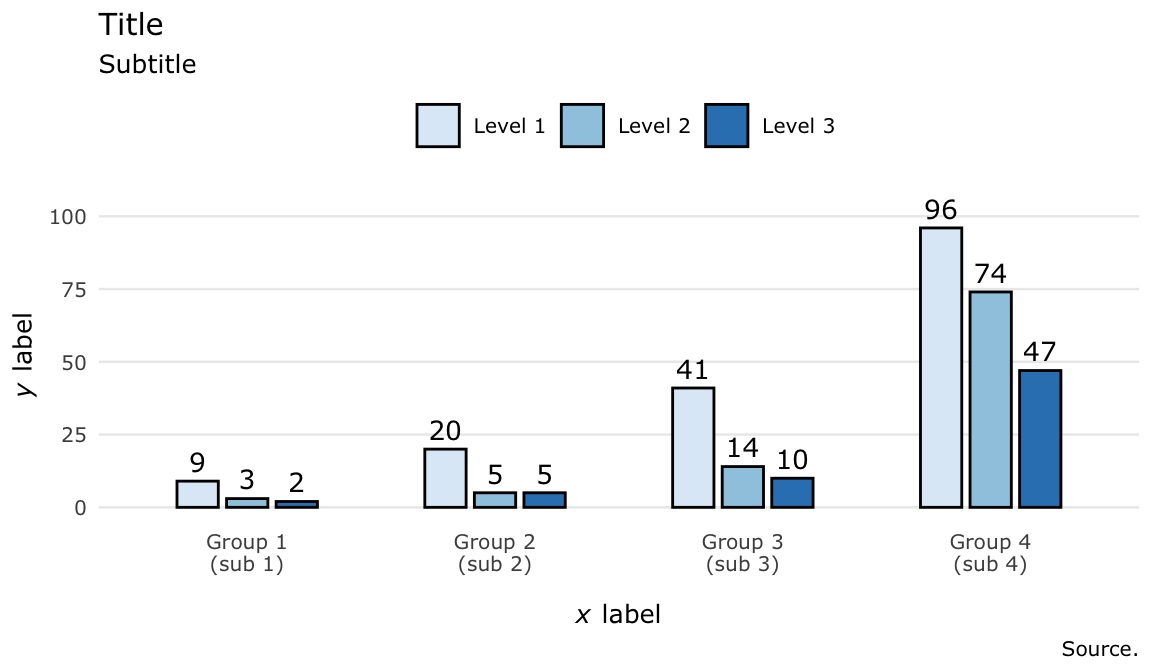
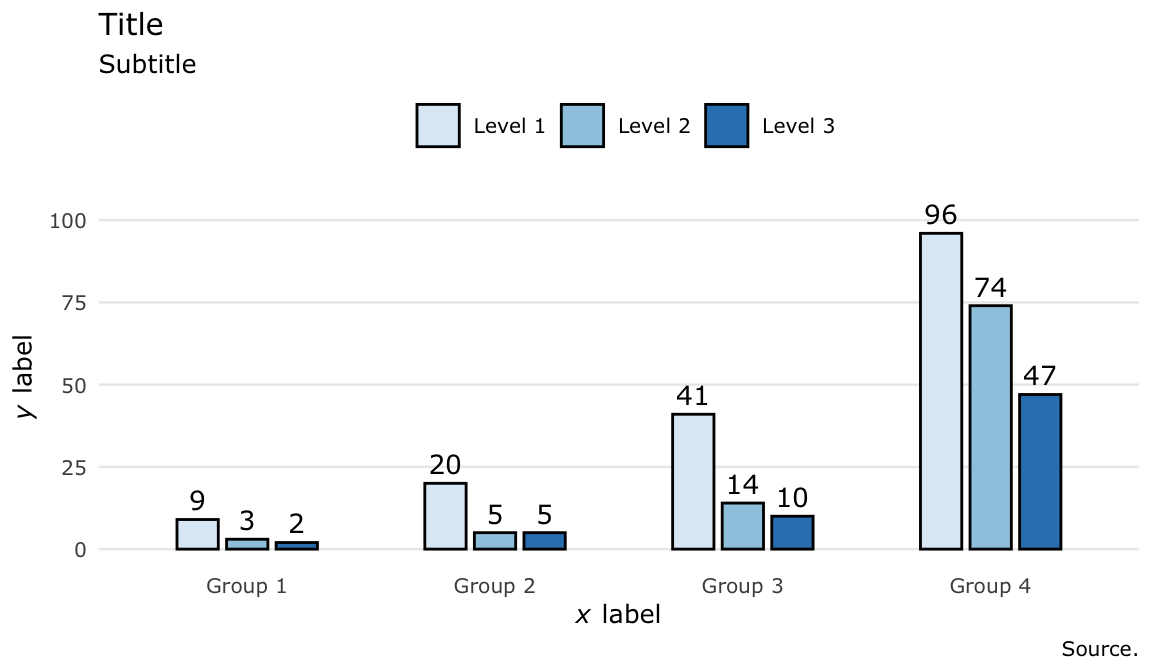
Some formatting cleanup

diff --git a/docs/roadmap_gallery/2024-03-15-writing-temp/index.html b/docs/roadmap_gallery/2024-03-15-writing-temp/index.html
@@ -146,7 +146,7 @@ code span.wa { color: #5e5e5e; font-style: italic; } /* Warning */
   <!--radix_placeholder_rmarkdown_metadata-->
 
 <script type="text/json" id="radix-rmarkdown-metadata">
-{"type":"list","attributes":{"names":{"type":"character","attributes":{},"value":["title","description","author","date","categories","output","header-includes","bibliography","draft","canonical_url"]}},"value":[{"type":"character","attributes":{},"value":["Technical reports with R Markdown & Bookdown"]},{"type":"character","attributes":{},"value":["I provide markdown snippets for a variety of text environments and formats that can \nbe created with R Markdown and the Bookdown package. I focus on\nthe elements that I find most useful for writing math."]},{"type":"list","attributes":{},"value":[{"type":"list","attributes":{"names":{"type":"character","attributes":{},"value":["name"]}},"value":[{"type":"character","attributes":{},"value":["Matthew Bain"]}]}]},{"type":"character","attributes":{},"value":["2024-03-22"]},{"type":"character","attributes":{},"value":["Reference"]},{"type":"list","attributes":{"names":{"type":"character","attributes":{},"value":["bookdown::html_document2"]}},"value":[{"type":"list","attributes":{"names":{"type":"character","attributes":{},"value":["base_format","includes","toc","toc_depth","toc_float","number_sections","self_contained","pandoc_args","css"]}},"value":[{"type":"character","attributes":{},"value":["distill::distill_article"]},{"type":"list","attributes":{"names":{"type":"character","attributes":{},"value":["in_header"]}},"value":[{"type":"character","attributes":{},"value":["../../favicon.html"]}]},{"type":"logical","attributes":{},"value":[true]},{"type":"integer","attributes":{},"value":[2]},{"type":"logical","attributes":{},"value":[true]},{"type":"logical","attributes":{},"value":[true]},{"type":"logical","attributes":{},"value":[false]},{"type":"character","attributes":{},"value":["--number-sections"]},{"type":"character","attributes":{},"value":["../../generic-css.css"]}]}]},{"type":"character","attributes":{},"value":["../../generic-header.tex"]},{"type":"character","attributes":{},"value":["../../generic-bib.bib"]},{"type":"logical","attributes":{},"value":[false]},{"type":"character","attributes":{},"value":["https://mattlabcode.github.io/roadmap_gallery/2024-03-15-writing-temp/"]}]}
+{"type":"list","attributes":{"names":{"type":"character","attributes":{},"value":["title","description","author","date","categories","output","header-includes","bibliography","draft","canonical_url"]}},"value":[{"type":"character","attributes":{},"value":["Technical reports with R Markdown & Bookdown"]},{"type":"character","attributes":{},"value":["I provide markdown snippets for a variety of text environments and formats that can \nbe created with R Markdown and the Bookdown package. I focus on\nthe elements that I find most useful for writing math."]},{"type":"list","attributes":{},"value":[{"type":"list","attributes":{"names":{"type":"character","attributes":{},"value":["name"]}},"value":[{"type":"character","attributes":{},"value":["Matthew Bain"]}]}]},{"type":"character","attributes":{},"value":["March 22, 2024"]},{"type":"character","attributes":{},"value":["Reference"]},{"type":"list","attributes":{"names":{"type":"character","attributes":{},"value":["bookdown::html_document2"]}},"value":[{"type":"list","attributes":{"names":{"type":"character","attributes":{},"value":["base_format","includes","toc","toc_depth","toc_float","number_sections","self_contained","pandoc_args","css"]}},"value":[{"type":"character","attributes":{},"value":["distill::distill_article"]},{"type":"list","attributes":{"names":{"type":"character","attributes":{},"value":["in_header"]}},"value":[{"type":"character","attributes":{},"value":["../../favicon.html"]}]},{"type":"logical","attributes":{},"value":[true]},{"type":"integer","attributes":{},"value":[2]},{"type":"logical","attributes":{},"value":[true]},{"type":"logical","attributes":{},"value":[true]},{"type":"logical","attributes":{},"value":[false]},{"type":"character","attributes":{},"value":["--number-sections"]},{"type":"character","attributes":{},"value":["../../generic-css.css"]}]}]},{"type":"character","attributes":{},"value":["../../generic-header.tex"]},{"type":"character","attributes":{},"value":["../../generic-bib.bib"]},{"type":"logical","attributes":{},"value":[false]},{"type":"character","attributes":{},"value":["https://mattlabcode.github.io/roadmap_gallery/2024-03-15-writing-temp/"]}]}
 </script>
 <!--/radix_placeholder_rmarkdown_metadata-->
   
@@ -2820,7 +2820,7 @@ the elements that I find most useful for writing math.</p></p>
   
   Matthew Bain
   
-<br/>2024-03-22
+<br/>March 22, 2024
 </div>
 
 <div class="d-article">
@@ -2854,7 +2854,7 @@ The examples are arbitrary, only meant to illustrate the syntax. The
 <a href="https://www.markdownguide.org/">markdown</a> syntax are not explained. For
 each example I provide the raw text followed by the rendered output.</p>
 <h1 data-number="1" id="definition-theorem-proof"><span class="header-section-number">1</span> Definition, theorem, proof</h1>
-<p>Ah, the familiar math textbook refrain. Below is the bookdown syntax for
+<p>Ah, the familiar math textbook refrain. Below is the Bookdown syntax for
 definition, theorem, and proof environments, respectively.</p>
 <h4 class="unnumbered" id="definition">Definition</h4>
 <div class="sourceCode" id="cb1"><pre class="sourceCode latex"><code class="sourceCode latex"><span id="cb1-1"><a href="#cb1-1" aria-hidden="true" tabindex="-1"></a>::: {#disjoint-sets-def .definition name=&quot;Disjoint sets&quot;}</span>
@@ -2909,7 +2909,7 @@ available theorem environments and their respective keywords.</p>
 </div>
 <span style="display: block; width: 100%; margin: 0 auto; border-bottom: 1px solid lightgray;"></span><p>
 <h4 class="unnumbered" id="automatic-numbering">Automatic numbering</h4>
-<p>The nice thing about bookdown is that it will automatically number
+<p>The nice thing about Bookdown is that it will automatically number
 definitions and theorems so that you can easily cross-reference them
 later on (see the <a href="#cross-references">Cross-references</a> section below).
 Just replace the name following the <code>#</code> (<code>pyth-thm</code> in the example
@@ -3097,8 +3097,9 @@ X =
 <p>The <code>~</code> symbol adds a whitespace character.</p>
 </aside>
 <p><span class="math display">\[
+\begin{align}
 X
-=
+&amp; =
 \left[\begin{matrix}
     a &amp; b &amp; c \\
     d &amp; e &amp; f \\
@@ -3108,14 +3109,15 @@ X
     y^{(1)} \\
     y^{(2)} \\
     y^{(3)}
-\end{matrix}\right]
-=
+\end{matrix}\right] \\
+&amp; =
 \left[\begin{matrix}
     |                     &amp; |                     &amp; | \\
     y^{(1)} ~ \vec{x}_1   &amp; y^{(2)} ~ \vec{x}_2   &amp; y^{(3)} ~ \vec{x}_3 \\
     |                     &amp; |                     &amp; |
 \end{matrix}\right]
 \in \mathbb{R^3}
+\end{align}
 \]</span></p>
 <!--
 & =
@@ -3207,11 +3209,6 @@ tell R to treat it as math rather than raw text. To give the block a
 number we add an <code>(\#eq:&lt;equation-tag&gt;)</code> after closing the split
 environment with <code>\end{split}</code>. Just replace the text after the <code>\#eq:</code>
 prefix with a memorable tag of your choice.</p>
-<p>Some additional notes:</p>
-<ul>
-<li>Each new line is preceded by a <code>\\</code> operator.</li>
-<li>Each aligned expression begins with the <code>&amp;</code> symbol.</li>
-</ul>
 <!--
 Wrapping in `$$` rather than an `equation` environment comes at the cost
 of in-editor syntax highlighting, but in exchange R Markdown will
@@ -3245,6 +3242,11 @@ the LaTeX readable but still easy to type.
 \tag{2}
 \]</span></p>
 </div>
+<p>Some additional notes:</p>
+<ul>
+<li>Each new line is preceded by a <code>\\</code> operator.</li>
+<li>Each aligned expression begins with the <code>&amp;</code> symbol.</li>
+</ul>
 <h4 class="unnumbered" id="numbered-lines-and-inline-notes">Numbered lines and inline notes</h4>
 <p>We can number lines individually by using the LaTeX <code>align</code> environment
 and adding a unique <code>(\#eq:&lt;equation-tag&gt;)</code> at the end of every line
@@ -3330,6 +3332,7 @@ display options are detailed
 <p>We can also execute the code within R Markdown and display the output.
 Here’s an example using ggplot2 that also illustrates how to display a
 numbered figure with a caption:</p>
+<span style="display: block; width: 100%; margin: 0 auto; border-bottom: 1px solid lightgray;"></span><p>
 <div class="layout-chunk" data-layout="default">
 <div class="sourceCode">
 <pre class="sourceCode r"><code class="sourceCode r"><span><span class='kw'><a href='https://rdrr.io/r/base/library.html'>library</a></span><span class='op'>(</span><span class='va'><a href='https://ggplot2.tidyverse.org'>ggplot2</a></span><span class='op'>)</span></span>
@@ -3374,15 +3377,16 @@ Figure 1: This is a figure caption.
 <a href="https://ggplot2.tidyverse.org/reference/theme.html">here</a> (<em>ggplot
 documentation</em>).</p>
 </aside>
+<span style="display: block; width: 100%; margin: 0 auto; border-bottom: 1px solid lightgray;"></span><p>
 <p>A couple notes:</p>
 <ul>
 <li>To cross-reference a figure, image, or table rendered with R code,
 give the chunk a unique label in its
 <a href="https://yihui.org/knitr/options/">knitr</a> header following the
-```<code>{r,</code> prefix.</li>
+<code>r</code> prefix.</li>
 <li>To give your figure a caption with a numbered prefix as shown in
 this example, add fig.cap=“&lt;Your figure caption.&gt;” to the knitr
-header, replacing the string in “&lt;&gt;”.</li>
+header, replacing the string inside the quotation marks.</li>
 </ul>
 <p>Here’s a more involved example that uses some more fine-tuning to
 achieve desired aesthetics. In the first cell we define the data. I
@@ -3390,6 +3394,7 @@ include this example because 1) I like this plot, and 2) I think it is a
 good example of how to manually enter data points into a structure that
 ggplot can work with and then to use that structure to produce a
 meaningful plot.</p>
+<span style="display: block; width: 100%; margin: 0 auto; border-bottom: 1px solid lightgray;"></span><p>
 <div class="layout-chunk" data-layout="l-body">
 <div class="sourceCode">
 <pre class="sourceCode r"><code class="sourceCode r"><span><span class='co'># Create df</span></span>
@@ -3444,8 +3449,8 @@ meaningful plot.</p>
 <span>    caption <span class='op'>=</span> <span class='st'>"Source."</span></span>
 <span>  <span class='op'>)</span> <span class='op'>+</span></span>
 <span>  <span class='fu'><a href='https://ggplot2.tidyverse.org/reference/scale_discrete.html'>scale_x_discrete</a></span><span class='op'>(</span></span>
-<span>    labels <span class='op'>=</span> <span class='fu'><a href='https://rdrr.io/r/base/c.html'>c</a></span><span class='op'>(</span><span class='st'>'Group 1\n(sub 1)'</span>, <span class='st'>'Group 2\n(sub 2)'</span>, </span>
-<span>               <span class='st'>'Group 3\n(sub 3)'</span>, <span class='st'>'Group 4\n(sub 4)\n'</span><span class='op'>)</span><span class='op'>)</span> <span class='op'>+</span></span>
+<span>    labels <span class='op'>=</span> <span class='fu'><a href='https://rdrr.io/r/base/c.html'>c</a></span><span class='op'>(</span><span class='st'>'Group 1'</span>, <span class='st'>'Group 2'</span>, </span>
+<span>               <span class='st'>'Group 3'</span>, <span class='st'>'Group 4'</span><span class='op'>)</span><span class='op'>)</span> <span class='op'>+</span></span>
 <span>  <span class='co'># Text/Legend adjustments</span></span>
 <span>  <span class='fu'><a href='https://ggplot2.tidyverse.org/reference/theme.html'>theme</a></span><span class='op'>(</span></span>
 <span>    plot.title <span class='op'>=</span> <span class='fu'><a href='https://wilkelab.org/ggtext/reference/element_markdown.html'>element_markdown</a></span><span class='op'>(</span>lineheight <span class='op'>=</span> <span class='fl'>1.1</span><span class='op'>)</span>,</span>
@@ -3472,6 +3477,7 @@ Figure 2: Figure caption.
 </p>
 </div>
 </div>
+<span style="display: block; width: 100%; margin: 0 auto; border-bottom: 1px solid lightgray;"></span><p>
 <!--
 # save_plot(filename = "../../images/test_plot.png", fig = p1, width = 10.75, height = 7, dpi = 300)
 !-->
@@ -3633,6 +3639,7 @@ snakes <- read.csv(file = "../../data/snakedata.csv")
 paged_table(snakes)
 !-->
 <h4 class="unnumbered" id="images">Images</h4>
+<span style="display: block; width: 100%; margin: 0 auto; border-bottom: 1px solid lightgray;"></span><p>
 <div class="layout-chunk" data-layout="default">
 <div class="sourceCode">
 <pre class="sourceCode r"><code class="sourceCode r"><span><span class='fu'>knitr</span><span class='fu'>::</span><span class='fu'><a href='https://rdrr.io/pkg/knitr/man/include_graphics.html'>include_graphics</a></span><span class='op'>(</span><span class='st'>"../../images/banner_fuji-01.jpg"</span><span class='op'>)</span></span></code></pre>
@@ -3647,6 +3654,7 @@ Figure 3: This is an image caption.
 <aside>
 <p>The <code>"class=external"</code> knitr option creates a frame around the image.</p>
 </aside>
+<span style="display: block; width: 100%; margin: 0 auto; border-bottom: 1px solid lightgray;"></span><p>
 <h1 data-number="7" id="cross-references"><span class="header-section-number">7</span> Cross-references</h1>
 <p>Now that we have some tagged equations and images, we can create
 hyperlinked references to them. Here are some examples:</p>
@@ -3800,13 +3808,14 @@ the column to accommodate the length of the whole sentence.
 <p>And to finish it off, let’s use some
 <a href="https://developer.mozilla.org/en-US/docs/Web/HTML/Reference">HTML</a>
 magic to center, enlarge, and change the colour of some text:</p>
+<span style="display: block; width: 100%; margin: 0 auto; border-bottom: 1px solid lightgray;"></span><p>
 <div class="sourceCode" id="cb31"><pre class="sourceCode html"><code class="sourceCode html"><span id="cb31-1"><a href="#cb31-1" aria-hidden="true" tabindex="-1"></a><span class="kw">&lt;p</span> <span class="er">style</span><span class="ot">=</span><span class="st">&quot;text-align:center; font-size:160%; color:darkblue;&quot;</span><span class="kw">&gt;</span></span>
 <span id="cb31-2"><a href="#cb31-2" aria-hidden="true" tabindex="-1"></a>    This is a big, blue, <span class="kw">&lt;b&gt;</span>bold<span class="kw">&lt;/b&gt;</span> sentence.</span>
 <span id="cb31-3"><a href="#cb31-3" aria-hidden="true" tabindex="-1"></a><span class="kw">&lt;/p&gt;</span></span></code></pre></div>
 <p style="text-align:center; font-size:160%; color:darkblue;">
     This is a big, blue, <b>bold</b> sentence.
 </p>
-<p><br></p>
+<span style="display: block; width: 100%; margin: 0 auto; border-bottom: 1px solid lightgray;"></span><p>
 <h1 class="unnumbered" id="conclusion">Conclusion</h1>
 <p>And that’s it! As we’ve seen, R Markdown is a powerful integrated tool
 for text editing, coding, and mathematical typesetting. Combined with
